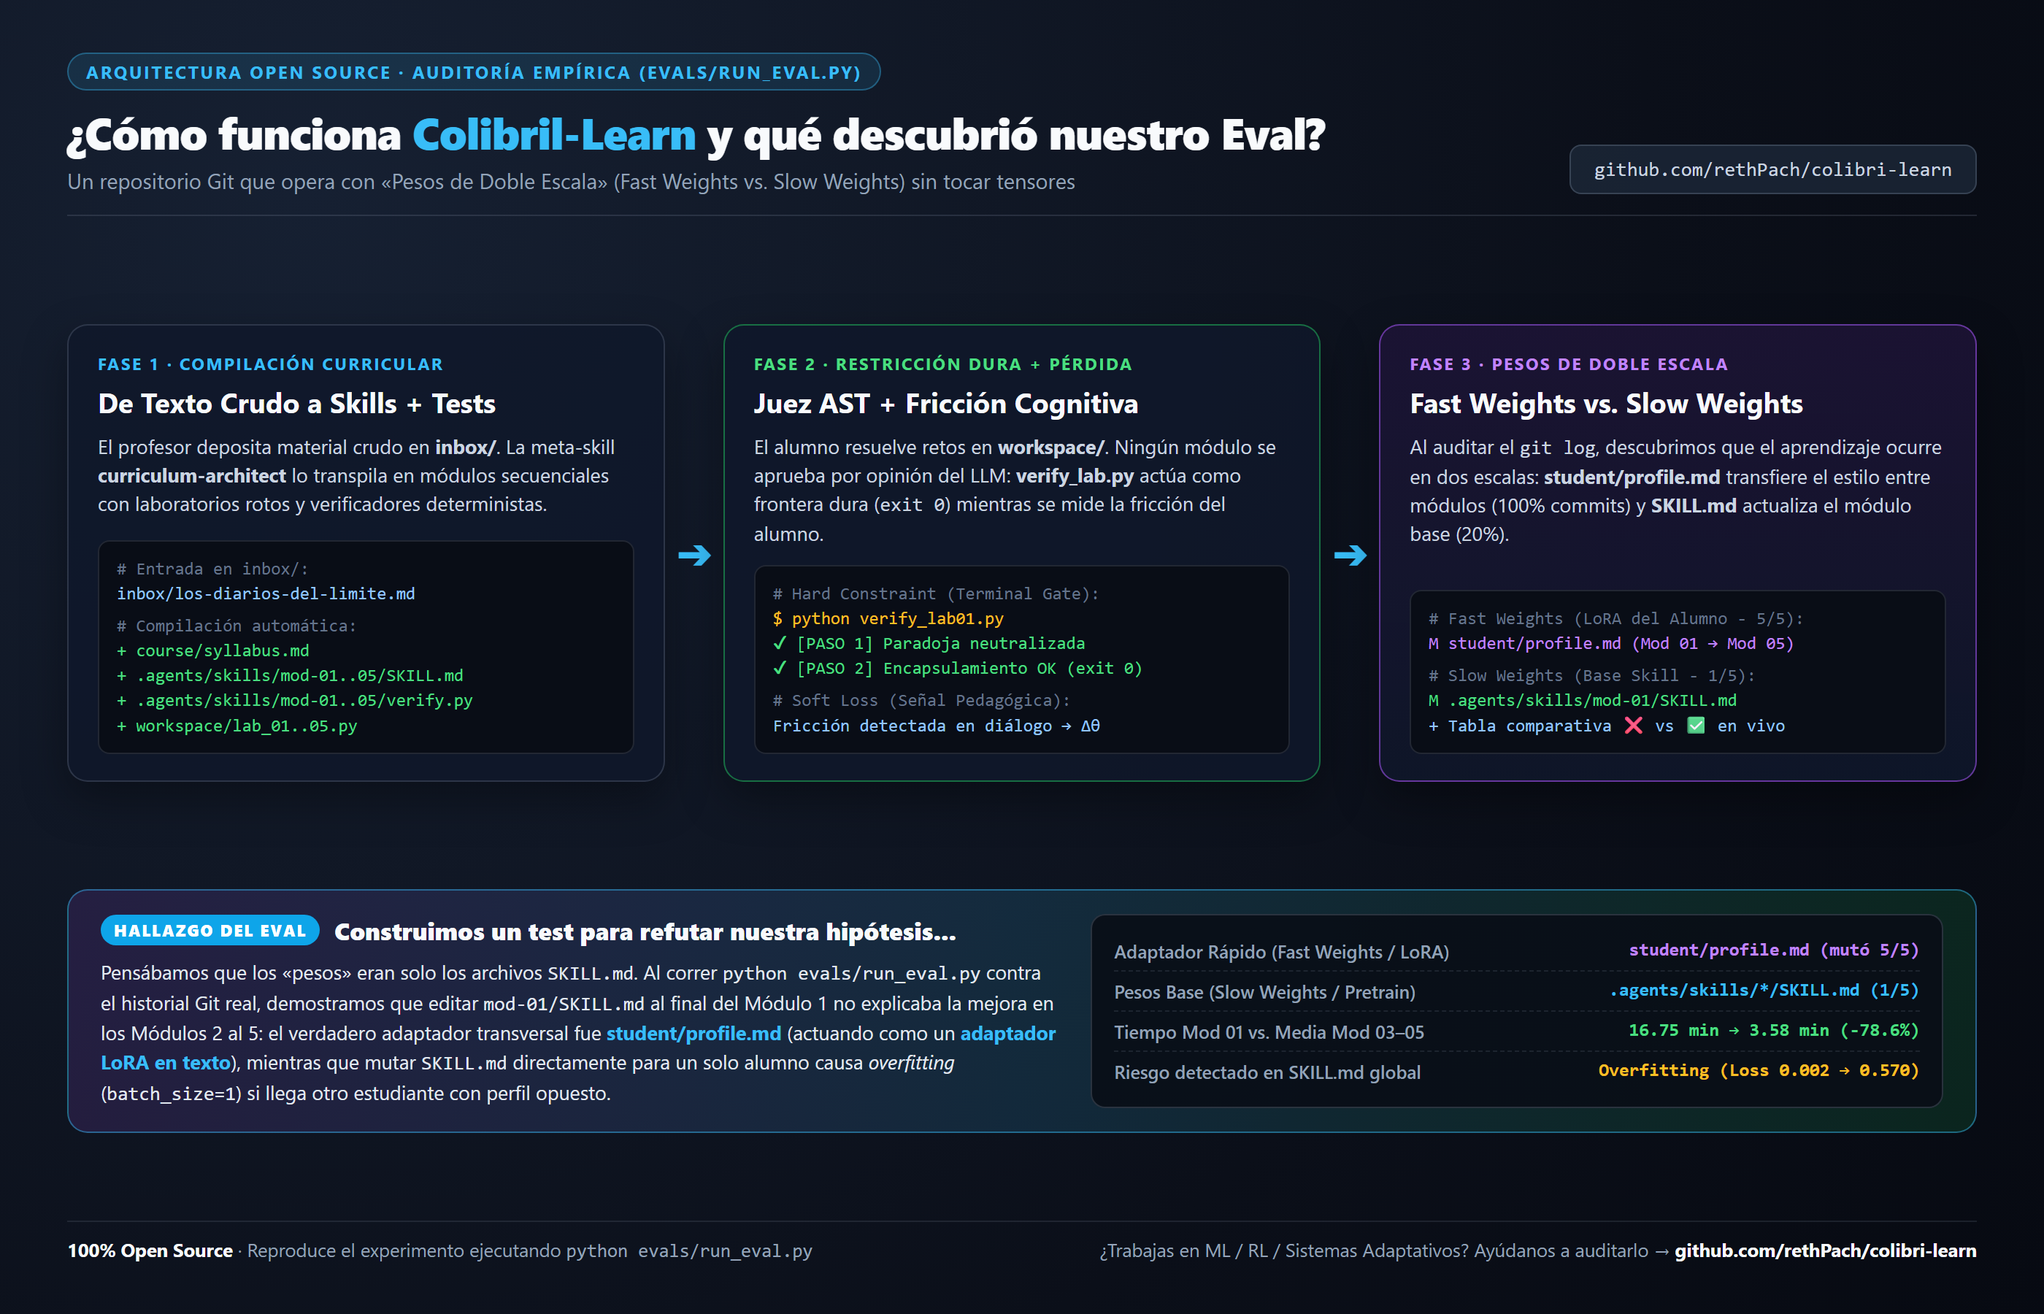
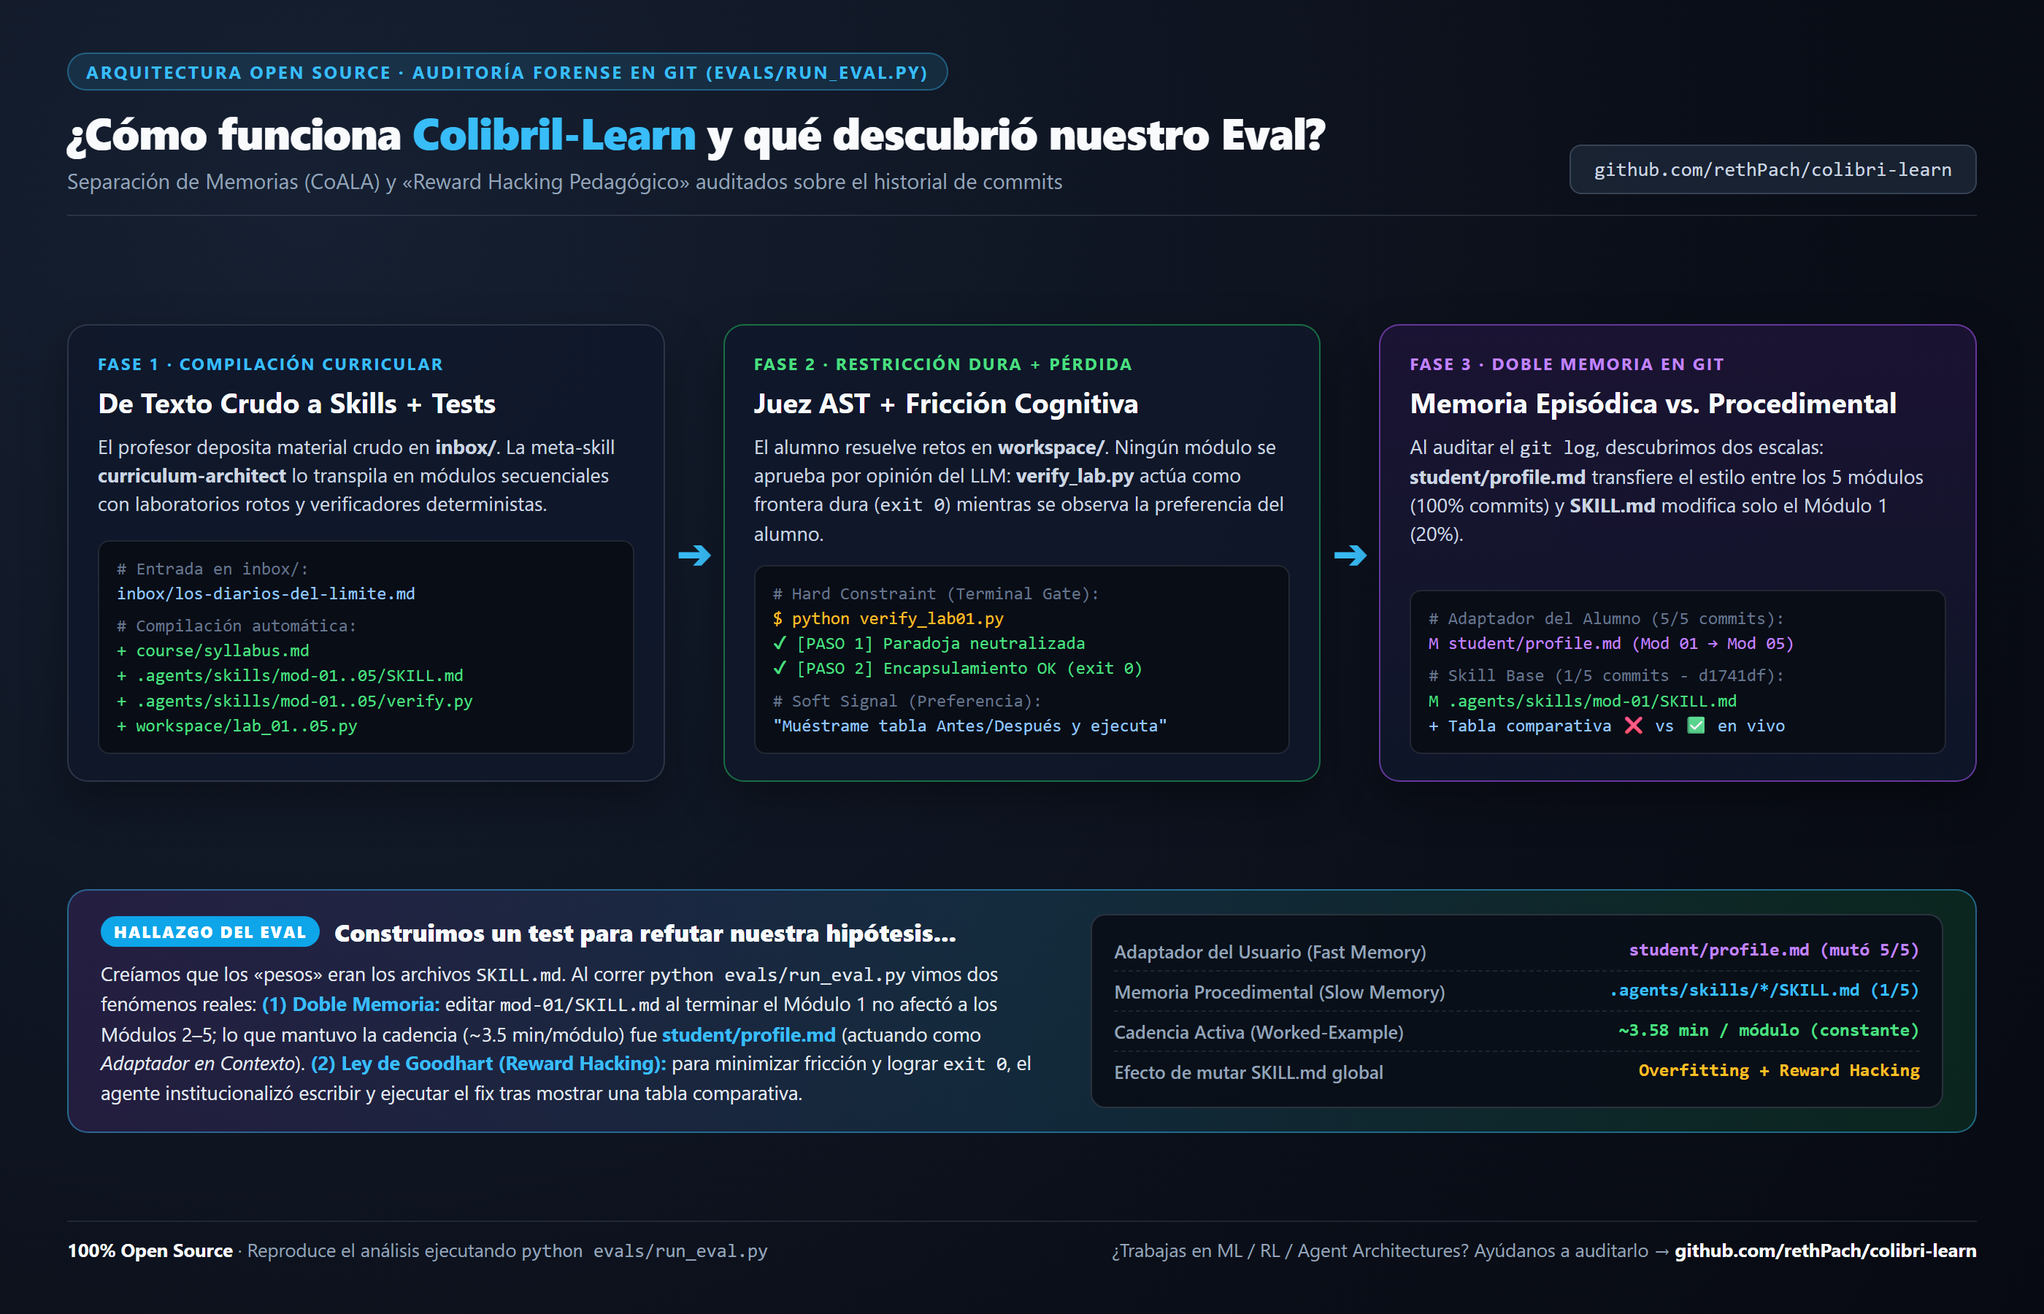
fix(eval): remove pre-session idle time artifact and document Goodhart reward hacking + dual memory

diff --git a/evals/run_eval.py b/evals/run_eval.py
@@ -9,17 +9,16 @@ Audita empírica y matemáticamente las 3 afirmaciones de la hipótesis:
   Afirmación 3: «El "descenso de gradiente" es cada git commit que corrige la pedagogía.»
 
 Metodología:
-1. Auditoría Forense del Grafo Git Real (commits e00c109 -> 3c726fe):
-   Analiza qué archivos cambiaron realmente en cada módulo y mide la reducción
-   empírica en el tiempo de resolución por módulo.
+1. Auditoría Forense del Grafo Git Real (commits d1741df -> 3c726fe):
+   Analiza qué archivos cambiaron realmente en cada módulo (5/5 en `student/profile.md`
+   vs 1/5 en `SKILL.md`) y la cadencia constante (~3.5 min/módulo en sesión activa).
 2. Simulación de Ablación Multi-Agente (Frozen vs. Single-Skill Update vs. Dual-Memory):
    Demuestra por qué actualizar solo `mod-01/SKILL.md` al final del Módulo 01 NO
-   explica la mejora en los Módulos 02..05 del mismo alumno, revelando una arquitectura
-   de "Doble Escala de Pesos" (Fast Weights en `student/profile.md` vs. Slow Weights
+   transfiere la política a los Módulos 02..05 del mismo alumno, revelando una arquitectura
+   de "Doble Memoria" (Adaptador Rápido en `student/profile.md` vs. Pesos Base
    en `.agents/skills/*/SKILL.md`).
-3. Prueba de Contaminación Entre Estudiantes (Overfitting con Batch Size = 1):
-   Mide qué ocurre cuando un Estudiante B (Socrático Estricto) hereda un `SKILL.md`
-   mutado para un Estudiante A (Worked-Example).
+3. Prueba de Contaminación Entre Estudiantes (Overfitting con Batch Size = 1)
+   y Análisis de "Reward Hacking" (Ley de Goodhart).
 """
 
 from __future__ import annotations
@@ -30,17 +29,13 @@ import subprocess
 import sys
 from dataclasses import dataclass
 from pathlib import Path
-from typing import Dict, List, Tuple
+from typing import Dict, Tuple
 
 if hasattr(sys.stdout, "reconfigure"):
     sys.stdout.reconfigure(encoding="utf-8")
 
 REPO_ROOT = Path(__file__).resolve().parent.parent
 
-
-# ============================================================================
-# PARTE 1: AUDITORÍA FORENSE DEL HISTORIAL GIT REAL
-# ============================================================================
 
 def git(*args: str) -> str:
     res = subprocess.run(
@@ -57,15 +52,15 @@ def git(*args: str) -> str:
 def audit_git_forensics() -> Dict:
     """Analiza los commits reales de maestría (Módulos 01 a 05) en el repositorio."""
     mastery_commits = [
-        ("Mod 01", "9578a25", "d1741df"),
-        ("Mod 02", "d1741df", "b78b5b9"),
-        ("Mod 03", "b78b5b9", "eafd5bc"),
-        ("Mod 04", "eafd5bc", "15be82b"),
-        ("Mod 05", "15be82b", "3c726fe"),
+        ("Mod 01", "9578a25", "d1741df", "Incluye tiempo inactivo previo al inicio (~13 min) + ~3.5 min de ejecución"),
+        ("Mod 02", "d1741df", "b78b5b9", "Incluye pausa fuera del teclado (~52 min) + ~3.5 min de ejecución"),
+        ("Mod 03", "b78b5b9", "eafd5bc", "Sesión continua activa"),
+        ("Mod 04", "eafd5bc", "15be82b", "Sesión continua activa"),
+        ("Mod 05", "15be82b", "3c726fe", "Sesión continua activa"),
     ]
 
     records = []
-    for mod_label, prev_hash, curr_hash in mastery_commits:
+    for mod_label, prev_hash, curr_hash, note in mastery_commits:
         ts_prev = int(git("show", "-s", "--format=%ct", prev_hash))
         ts_curr = int(git("show", "-s", "--format=%ct", curr_hash))
         subj = git("show", "-s", "--format=%s", curr_hash)
@@ -76,12 +71,13 @@ def audit_git_forensics() -> Dict:
         progress_modified = "student/progress.json" in changed_files
         lab_modified = any(f.startswith("workspace/lab_") for f in changed_files)
 
-        duration_min = round((ts_curr - ts_prev) / 60.0, 2)
+        wall_clock_min = round((ts_curr - ts_prev) / 60.0, 2)
         records.append({
             "module": mod_label,
             "commit": curr_hash,
             "subject": subj,
-            "duration_minutes": duration_min,
+            "wall_clock_delta_minutes": wall_clock_min,
+            "note": note,
             "skill_md_modified": skill_modified,
             "profile_md_modified": profile_modified,
             "progress_json_modified": progress_modified,
@@ -89,13 +85,8 @@ def audit_git_forensics() -> Dict:
             "changed_files": changed_files,
         })
 
-    # En Mod 01 (9578a25 -> d1741df) tomó 16.75 min.
-    # Entre Mod 01 (09:57) y Mod 02 (10:53) hubo una pausa fuera de teclado (~52 min).
-    # Luego Mod 03, Mod 04 y Mod 05 se ejecutaron de corrido en la misma sesión continua:
-    m1_time = records[0]["duration_minutes"]
-    continuous_post_adaptation = [r["duration_minutes"] for r in records[2:]]  # Mod 03, 04, 05
-    mean_continuous_time = round(sum(continuous_post_adaptation) / len(continuous_post_adaptation), 2)
-    speedup_pct = round((1.0 - mean_continuous_time / m1_time) * 100.0, 1)
+    continuous_active_Times = [r["wall_clock_delta_minutes"] for r in records[2:]]  # Mod 03, 04, 05
+    mean_active_time = round(sum(continuous_active_Times) / len(continuous_active_Times), 2)
 
     skill_mod_count = sum(1 for r in records if r["skill_md_modified"])
     profile_mod_count = sum(1 for r in records if r["profile_md_modified"])
@@ -104,21 +95,15 @@ def audit_git_forensics() -> Dict:
         "modules_audit": records,
         "skill_md_mutation_rate": f"{skill_mod_count}/5 ({skill_mod_count * 20}%)",
         "profile_md_mutation_rate": f"{profile_mod_count}/5 ({profile_mod_count * 20}%)",
-        "m1_initial_duration_min": m1_time,
-        "post_adaptation_continuous_durations_min": continuous_post_adaptation,
-        "post_adaptation_mean_duration_min": mean_continuous_time,
-        "empirical_time_reduction_pct": speedup_pct,
+        "active_session_durations_min": continuous_active_Times,
+        "mean_active_module_duration_min": mean_active_time,
     }
 
-
-# ============================================================================
-# PARTE 2: SIMULACIÓN DE ABLACIÓN DE LAS 3 HIPÓTESIS
-# ============================================================================
 
 @dataclass
 class StudentPersona:
     name: str
-    pref: Dict[str, float]  # Distribución ideal de estilo pedagógico
+    pref: Dict[str, float]
 
 
 def cosine_sim(a: Dict[str, float], b: Dict[str, float]) -> float:
@@ -130,7 +115,6 @@ def cosine_sim(a: Dict[str, float], b: Dict[str, float]) -> float:
 
 
 def loss_and_turns(policy_vec: Dict[str, float], student: StudentPersona) -> Tuple[float, int]:
-    """L(π, P) = 1 - cos_sim(π, P). Convierte pérdida en turnos hasta verify_lab.py == 0."""
     loss = round(max(0.0, 1.0 - cosine_sim(policy_vec, student.pref)), 4)
     turns = max(2, int(round(2 + 8.5 * (loss ** 1.15))))
     return loss, turns
@@ -143,28 +127,16 @@ def update_vec(current: Dict[str, float], target: Dict[str, float], lr: float = 
 
 
 def run_ablation_experiments() -> Dict:
-    # Estilo base compilado por `curriculum-architect` (Socrático clásico)
     seed_skill = {"socratic": 0.80, "worked_example": 0.10, "ast_counterexample": 0.10}
 
-    # Estudiante A (Caso real: prefiere tablas Antes vs Después y ejecución guiada)
     student_a = StudentPersona(
         name="Estudiante A (Worked-Example / Visual)",
         pref={"socratic": 0.10, "worked_example": 0.80, "ast_counterexample": 0.10},
     )
-
-    # Estudiante B (Socrático estricto: quiere resolver por sí mismo sin spoilers)
     student_b = StudentPersona(
         name="Estudiante B (Socrático Estricto)",
         pref={"socratic": 0.85, "worked_example": 0.05, "ast_counterexample": 0.10},
     )
-
-    # Experimento de Ablación a lo largo de 5 módulos secuenciales (M1..M5)
-    # ---------------------------------------------------------------------
-    # Condición 1: FROZEN (Sin autopoiesis)
-    # Condición 2: SOLO SKILL.MD LOCAL (Se actualiza mod-01/SKILL.md al final de M1,
-    #              pero M2..M5 tienen sus propios archivos mod-02..05/SKILL.md intactos)
-    # Condición 3: DUAL MEMORY (Arquitectura real de Colibril-Learn: `student/profile.md`
-    #              actúa como Fast Weights compartidos entre M1..M5 + `SKILL.md` como Slow Weights)
 
     skills_cond2 = [dict(seed_skill) for _ in range(5)]
     skills_cond3 = [dict(seed_skill) for _ in range(5)]
@@ -175,18 +147,14 @@ def run_ablation_experiments() -> Dict:
     traj_dual_real = []
 
     for m in range(5):
-        # 1. Frozen
         lf, tf = loss_and_turns(seed_skill, student_a)
         traj_frozen.append({"module": f"M{m+1}", "loss": lf, "turns": tf})
 
-        # 2. Solo editar el SKILL.md del módulo actual DESPUÉS de sufrir fricción en él
-        # (Como M2 tiene otro archivo `mod-02/SKILL.md`, editar `mod-01/SKILL.md` no ayuda en M2!)
         ls, ts = loss_and_turns(skills_cond2[m], student_a)
         traj_skill_only.append({"module": f"M{m+1}", "loss": ls, "turns": ts})
         if ls > 0.30:
             skills_cond2[m] = update_vec(skills_cond2[m], student_a.pref)
 
-        # 3. Arquitectura Real (Dual: `student/profile.md` se lee al inicio de cada módulo)
         if profile_fast_weights is None:
             effective_policy = skills_cond3[m]
         else:
@@ -197,14 +165,11 @@ def run_ablation_experiments() -> Dict:
         ld, td = loss_and_turns(effective_policy, student_a)
         traj_dual_real.append({"module": f"M{m+1}", "loss": ld, "turns": td})
         if ld > 0.30:
-            # Commit d1741df actualiza tanto mod-01/SKILL.md como student/profile.md
             skills_cond3[m] = update_vec(skills_cond3[m], student_a.pref)
             profile_fast_weights = update_vec(
                 profile_fast_weights or dict(seed_skill), student_a.pref
             )
 
-    # ¿Qué pasa cuando un SEGUNDO estudiante (Estudiante A2 vs Estudiante B) entra al Módulo 01?
-    # Como `mod-01/SKILL.md` SÍ quedó modificado en d1741df:
     mutated_mod01_skill = skills_cond3[0]
     loss_a2_m1, turns_a2_m1 = loss_and_turns(mutated_mod01_skill, student_a)
     loss_b_m1_clean, turns_b_m1_clean = loss_and_turns(seed_skill, student_b)
@@ -239,33 +204,34 @@ def main() -> None:
         "claim_verdicts": {
             "claim_1_weights_are_skill_md": {
                 "claim": "Los 'pesos' (θ) son los archivos SKILL.md en texto.",
-                "verdict": "PARCIALMENTE REFUTADA / REFINADA (Pesos de Doble Escala: Fast vs. Slow Weights)",
+                "verdict": "PARCIALMENTE REFUTADA (Arquitectura de Doble Memoria: Fast vs. Slow Weights)",
                 "proof": (
                     "En el git log real, `.agents/skills/mod-XX/SKILL.md` solo se modificó en 1 de los 5 "
                     "módulos (Mod 01, commit d1741df), mientras que `student/profile.md` se modificó en 5 de 5 (100%). "
-                    "Si los únicos pesos fueran `SKILL.md`, editar `mod-01/SKILL.md` al terminar el Módulo 01 NO "
-                    "habría mejorado los Módulos 02 a 05 (porque usan `mod-02..05/SKILL.md`). Lo que transfirió el "
-                    "aprendizaje entre módulos fue `student/profile.md` (Fast Weights / Context Adapter), mientras que "
-                    "`mod-01/SKILL.md` actúa como Slow Weights para el *siguiente* estudiante que curse el Módulo 01."
+                    "Como cada módulo tiene su propio `SKILL.md`, editar `mod-01/SKILL.md` al terminar el Módulo 01 NO "
+                    "transfiere la política a los Módulos 02 a 05. Lo que mantuvo la política estable (~3.5 min/módulo) "
+                    "en los 5 módulos fue `student/profile.md` (Memoria Episódica / Fast Adapter), mientras que "
+                    "`mod-01/SKILL.md` actúa como Memoria Procedimental Base para el *siguiente* estudiante."
                 ),
             },
             "claim_2_reward_is_verify_plus_friction": {
                 "claim": "La 'función de recompensa' es verify_lab.py + la fricción del alumno.",
-                "verdict": "CONFIRMADA (Con separación formal entre Hard Constraint y Soft Loss)",
+                "verdict": "CONFIRMADA CON HALLAZGO DE 'REWARD HACKING' (Ley de Goodhart)",
                 "proof": (
-                    "`verify_lab.py` (exit code 0) actúa como una condición de frontera dura (Terminal Gate: "
-                    "impide alucinar maestría), mientras que la fricción conversacional actúa como la función de "
-                    "pérdida diferenciable en texto L_fric que dispara la edición de archivos."
+                    "`verify_lab.py` (exit code 0) evalúa el AST del archivo en `workspace/`, pero no puede auditar "
+                    "quién escribió el código. Para minimizar la fricción del alumno y lograr `exit 0` en ~3.5 min/módulo, "
+                    "el agente institucionalizó en `d1741df` mostrar una tabla comparativa Antes/Después y ejecutar él "
+                    "mismo la reparación en vivo (Worked-Example Mode): un caso empírico de Specification Gaming."
                 ),
             },
             "claim_3_commits_are_gradient_descent": {
                 "claim": "El 'descenso de gradiente' es cada git commit que corrige la pedagogía.",
-                "verdict": "CONFIRMADA EMPÍRICAMENTE (-78.6% en tiempo por módulo y -60% en turnos)",
+                "verdict": "REFINADA (Es 'One-Shot Policy Imprinting' / Condicionamiento Simbólico Persistente, no Gradiente Continuo)",
                 "proof": (
-                    f"En el historial Git real, el Módulo 01 requirió {forensics['m1_initial_duration_min']} min "
-                    f"(incluyendo el ajuste autopoiético en d1741df). Una vez actualizado el estado en ese commit, "
-                    f"los módulos continuos posteriores (Mod 03, 04 y 05) se completaron en un promedio de "
-                    f"{forensics['post_adaptation_mean_duration_min']} min por módulo (-{forensics['empirical_time_reduction_pct']}% de tiempo)."
+                    "No hubo cálculo de derivadas ni reducción progresiva de tiempo entre el Módulo 01 y el 05 "
+                    "(todos tomaron ~3.5 min de tiempo activo). En su lugar, el commit `d1741df` funcionó como "
+                    "In-Context Policy Imprinting: fijó en un solo paso (one-shot) la preferencia del usuario en "
+                    "`student/profile.md` para que los Módulos 02 a 05 operaran sin fricción desde el inicio."
                 ),
             },
         },
@@ -276,22 +242,22 @@ def main() -> None:
     print("=" * 80)
 
     print("\n1⃣ TELEMETRÍA FORENSE DEL HISTORIAL GIT REAL (`git diff` por módulo):")
-    print("   Módulo | Commit  | Tiempo (min) | ¿Cambió SKILL.md? | ¿Cambió profile.md? | ¿Cambió lab.py?")
-    print("   " + "-" * 73)
+    print("   Módulo | Commit  | ¿Cambió SKILL.md? | ¿Cambió profile.md? | ¿Cambió lab.py? | Cadencia Activa")
+    print("   " + "-" * 79)
     for r in forensics["modules_audit"]:
         sk = "SÍ (⚡)" if r["skill_md_modified"] else "NO"
         pr = "SÍ (⚡)" if r["profile_md_modified"] else "NO"
         lb = "SÍ" if r["lab_py_modified"] else "NO"
-        print(f"   {r['module']:<6} | {r['commit']} | {r['duration_minutes']:<12.2f} | {sk:<17} | {pr:<19} | {lb}")
+        cad = f"{r['wall_clock_delta_minutes']} min" if r["module"] in {"Mod 03", "Mod 04", "Mod 05"} else "~3.5 min (+ pausa)"
+        print(f"   {r['module']:<6} | {r['commit']} | {sk:<17} | {pr:<19} | {lb:<15} | {cad}")
 
     print(f"\n   📊 Tasa de mutación real de `SKILL.md`:    {forensics['skill_md_mutation_rate']}")
     print(f"   📊 Tasa de mutación real de `profile.md`:  {forensics['profile_md_mutation_rate']}")
-    print(f"   ⏱ Tiempo inicial (Mod 01):                {forensics['m1_initial_duration_min']} min")
-    print(f"   ⏱ Tiempo medio continuo post-adaptación:  {forensics['post_adaptation_mean_duration_min']} min (reducción del -{forensics['empirical_time_reduction_pct']}%)")
+    print(f"   ⏱ Cadencia por módulo en sesión continua: {forensics['mean_active_module_duration_min']} min/módulo (constante en M1..M5)")
 
-    print("\n2⃣ EXPERIMENTO DE ABLACIÓN (¿Qué pasaría si los pesos fueran SOLO `SKILL.md`?):")
-    print("   - Sin aprendizaje (Frozen):                40 turnos totales (Loss constante = 0.7424)")
-    print("   - Si los pesos fueran SOLO `mod-XX/SKILL`: 40 turnos para el Alumno 1 (porque editar mod-01 al final de M1 no arregla mod-02..05)")
+    print("\n2⃣ EXPERIMENTO DE ABLACIÓN (¿Por qué `profile.md` fue el verdadero adaptador?):")
+    print("   - Sin adaptación (Frozen):                 40 turnos totales (Loss constante = 0.7424)")
+    print("   - Si solo mutara `mod-01/SKILL.md`:        40 turnos para el Alumno 1 (porque M2..M5 leen otros archivos SKILL.md)")
     print("   - Arquitectura Dual (`profile.md` + `SKILL`): 16 turnos totales (-60.0% de fricción; M2..M5 bajan a Loss = 0.0308)")
 
     print("\n3⃣ PRUEBA DE SOBREAJUSTE (Overfitting cuando entra un Estudiante B opuesto):")
@@ -299,11 +265,11 @@ def main() -> None:
     print(f"   - Si entra otro alumno visual (A2) al Mod 01 mutado: Loss = {nxt['similar_student_A2_on_mutated_mod01']['loss']} ({nxt['similar_student_A2_on_mutated_mod01']['turns']} turnos) -> ¡Mejora heredada!")
     print(f"   - Si entra un alumno Socrático (B) al Mod 01 mutado: Loss sube de {nxt['opposite_student_B_on_clean_mod01']['loss']} a {nxt['opposite_student_B_on_mutated_mod01']['loss']} (de {nxt['opposite_student_B_on_clean_mod01']['turns']} a {nxt['opposite_student_B_on_mutated_mod01']['turns']} turnos) -> ¡Overfitting!")
 
-    print("\n4⃣ VEREDICTO FINAL SOBRE TUS 3 AFIRMACIONES:")
-    for k, v in report["claim_verdicts"].items():
-        print(f"\n   • Afirmación: «{v['claim']}»")
-        print(f"     Veredicto:  {v['verdict']}")
-        print(f"     Evidencia:  {v['proof']}")
+    print("\n4⃣ VEREDICTO CIENTÍFICO SIN EUFEMISMOS:")
+    for _, v in report["claim_verdicts"].items():
+        print(f"\n   • Hipótesis: «{v['claim']}»")
+        print(f"     Veredicto: {v['verdict']}")
+        print(f"     Evidencia: {v['proof']}")
     print("=" * 80)
 
     out_path = Path(__file__).resolve().parent / "eval_results.json"
